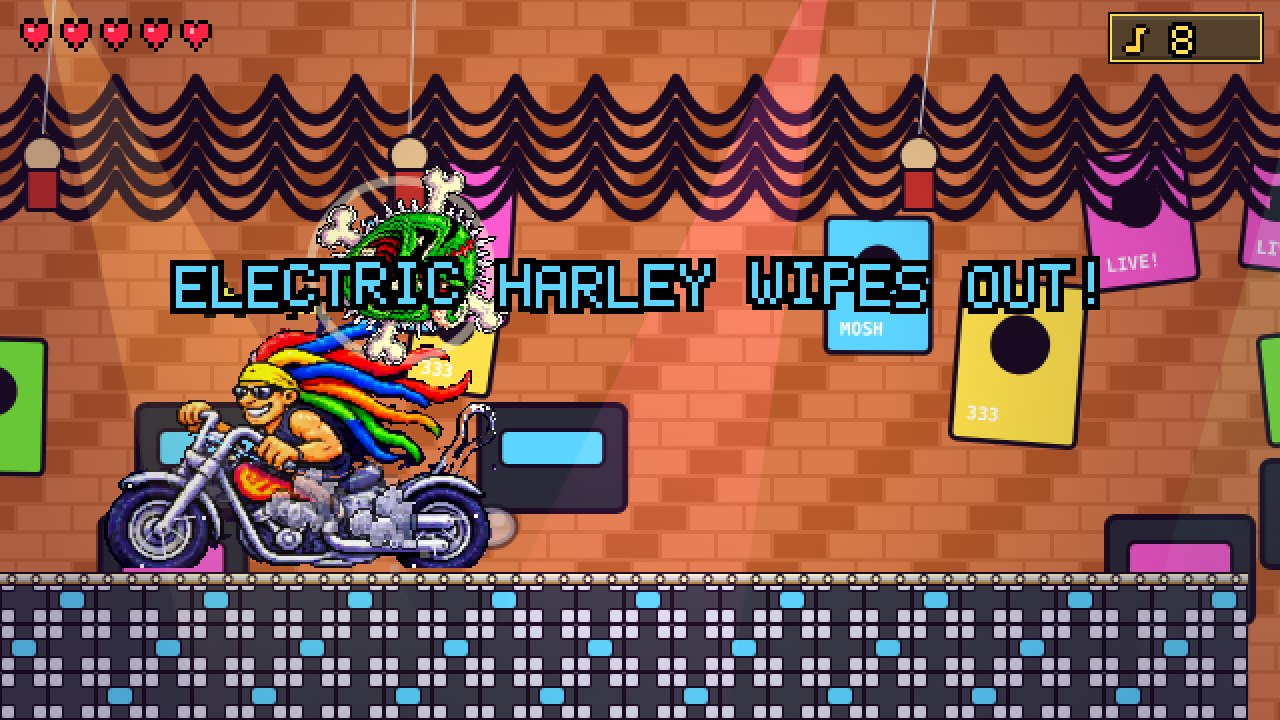
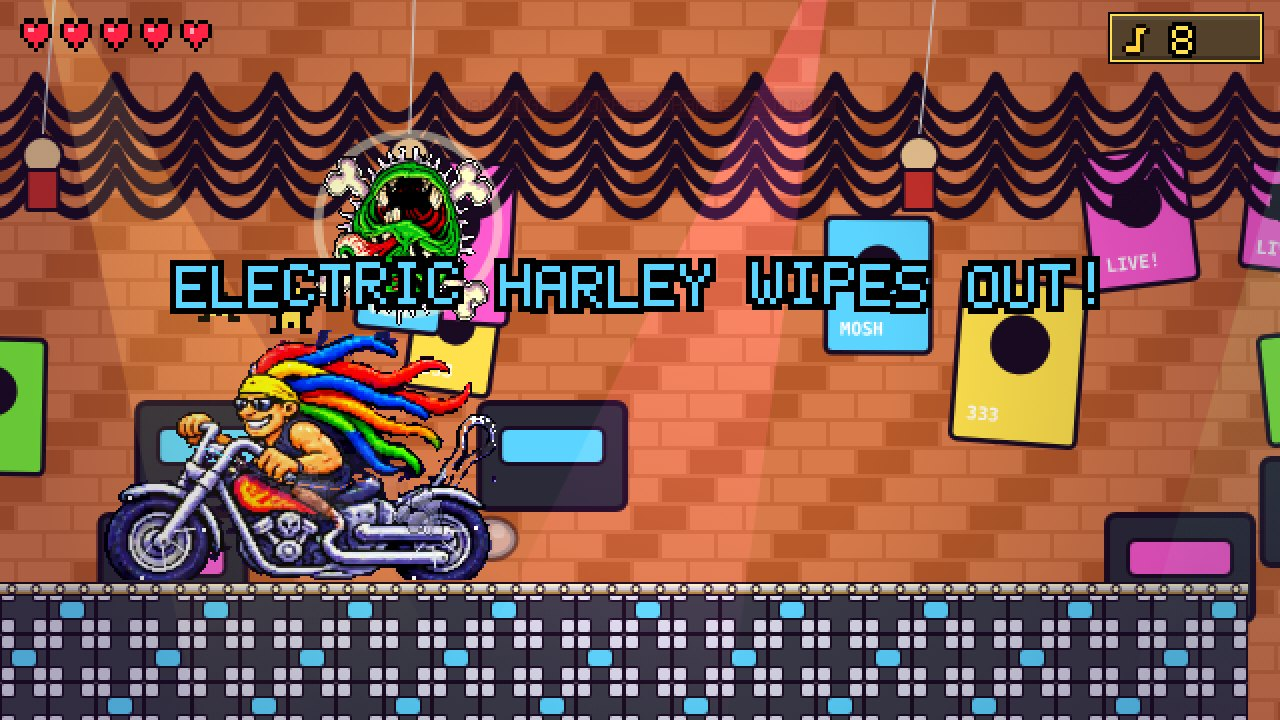
Cowgod is much larger: boss ~1.9x with matching hitbox and flight paths, ally and cameos ~1.6-1.9x
- Boss: drawn at 1.18 (was .62), hitbox 150x120 (was 80x70); hover/swoop/stomp heights
  retuned so he stays fully on screen and still reaches the player
- Camera: a boss arena can pin the floor low on screen (camLock.gy) to leave sky for
  big flying bosses; used by Cowgod
- Flying ally .8 (was .42) and follows a little lower/further back; cutscene actor 1.05,
  assists .9, concert .6, title parade .55

Claude-Session: https://claude.ai/code/session_019Ne5GGHYBphK5gLvVuayK5

Changed region(s): [[0.0, 0.1222, 1.0, 1.0], [0.875, 0.7028, 0.9688, 0.7639]]

diff --git a/game/333-dimensions-of-madness/333-dimensions-of-madness.html b/game/333-dimensions-of-madness/333-dimensions-of-madness.html
@@ -1493,7 +1493,7 @@ const Cam = {
     this.look = lerp(this.look || 0, facing * VW * .12, instant ? 1 : .025);
     let tx = px - VW / 2 + this.look, ty = this.ty0 === undefined ? py - VH * .56 : this.ty0;
     const want = py - VH * .56; if (instant || Math.abs(want - ty) > 18) ty = lerp(ty, want, instant ? 1 : .08); this.ty0 = ty;
-    if (L.camLock) { tx = clamp(tx, L.camLock.x0, L.camLock.x1 - VW); }
+    if (L.camLock) { tx = clamp(tx, L.camLock.x0, L.camLock.x1 - VW); if (L.camLock.gy) ty = L.camLock.gy - VH * .86; } // gy: arena floor low on screen (room for big flying bosses)
     tx = clamp(tx, 0, L.w * TS - VW); ty = clamp(ty, 0, L.h * TS - VH);
     if (L.autoScroll) tx = Math.max(this.x, L.scrollX);
     if (instant) { this.x = tx; this.y = ty; } else { this.x = lerp(this.x, tx, L.autoScroll ? 1 : .1); this.y = lerp(this.y, ty, .1); }
@@ -2664,7 +2664,7 @@ function drawActor(who, x, y, o = {}) {
     case 'hamwise': case 'porkington': case 'trufflina': drawPig(who, x, y, { face: o.face, state: o.anim === 'dance' ? 'dance' : o.anim || 'idle', t }); break;
     case 'razz': drawBiker(x, y, { face: o.face, t, speed: o.anim === 'idle' ? .1 : 1, wheelie: o.anim === 'wheelie' ? .35 + Math.sin(t * 4) * .05 : 0 }); break;
     case 'barnaby': drawWolf(x, y, { face: o.face, t, arm: o.anim === 'howl' ? -.3 : Math.sin(t * 2) * .2, rot: o.anim === 'howl' ? -.2 : 0, scale: o.scale || .7 }); break;
-    case 'udderly': drawCow(x, y - (o.anim === 'fly' ? 20 + Math.sin(t * 3) * 6 : 0), { face: o.face, t, scale: o.scale || .6, rot: o.anim === 'fly' ? -.15 : 0, hypno: o.hypno }); break;
+    case 'udderly': drawCow(x, y - (o.anim === 'fly' ? 20 + Math.sin(t * 3) * 6 : 0), { face: o.face, t, scale: o.scale || 1.05, rot: o.anim === 'fly' ? -.15 : 0, hypno: o.hypno }); break;
     case 'gloop': drawSludge(x, y, { face: o.face, t, scale: o.scale || .45 }); break;
     case 'gloopkin': drawGloopkin(x, y, { face: o.face, t }); break;
     case 'bear': spr(SPR.bear[Math.floor(t * 2) % 2], x, y, { flip: (o.face || 1) < 0 }); break;
@@ -2917,29 +2917,30 @@ class WolfBoss extends Boss {
 }
 // ---------------------------------------------------------------------------- COWGOD (hypnotized)
 class CowBoss extends Boss {
-  constructor(x, y, o) { super(x, y - 90, 80, 70, o); this.name = 'COWGOD (HYPNOTIZED)'; this.setHp(30); this.ground = y; this.face = -1; this.rot = 0; this.cape = 3; this.capeStretch = 0; this.sxx = 1; this.syy = 1; this.hx = x; }
+  constructor(x, y, o) { super(x - 35, y - 170, 150, 120, o); this.name = 'COWGOD (HYPNOTIZED)'; this.setHp(30); this.ground = y; this.face = -1; this.rot = 0; this.cape = 3; this.capeStretch = 0; this.sxx = 1; this.syy = 1; this.hx = x; }
   hitbox() { return { x: this.x + 10, y: this.y + 8, w: this.w - 20, h: this.h - 10 }; }
   update(L) {
     if (!this.commonUpdate()) return; const p = Game.player, a = L.camLock || { x0: Cam.x, x1: Cam.x + W }, mid = (a.x0 + a.x1) / 2, spd = 1 + (this.phase - 1) * .25;
+    if (L.camLock) L.camLock.gy = this.ground; // frame the arena with the floor low: Cowgod is BIG and needs sky
     this.rot = lerp(this.rot, 0, .08); this.cape = lerp(this.cape, 3, .05); this.capeStretch = lerp(this.capeStretch, 0, .1); this.sxx = lerp(this.sxx, 1, .15); this.syy = lerp(this.syy, 1, .15);
     switch (this.state) {
-      case 'intro': this.y = this.ground - 160 + Math.sin(this.t * .05) * 8; if (this.st > 60) this.go('hover'); break;
-      case 'hover': this.face = sign(p.cx - this.cx) || -1; this.x = lerp(this.x, p.cx - this.w / 2 - this.face * 120, .02); this.y = lerp(this.y, this.ground - 170 + Math.sin(this.t * .06) * 14, .05);
+      case 'intro': this.y = this.ground - 196 + Math.sin(this.t * .05) * 8; if (this.st > 60) this.go('hover'); break;
+      case 'hover': this.face = sign(p.cx - this.cx) || -1; this.x = lerp(this.x, p.cx - this.w / 2 - this.face * 160, .02); this.y = lerp(this.y, this.ground - 196 + Math.sin(this.t * .06) * 8, .05);
         if (this.st > 80 / spd) this.go(pick(this.phase === 1 ? ['swoop', 'charge'] : ['swoop', 'stomp', 'charge'])); break;
       case 'swoop': { if (this.st === 1) { this.sx0 = this.x; this.tx = p.cx; AudioSys.play_sfx('flap'); AudioSys.play_sfx('moo'); }
-        const k = this.st / (70 / spd); this.x = lerp(this.sx0, this.tx - this.w / 2 + this.face * 220, k); this.y = this.ground - 170 + Math.sin(k * Math.PI) * 130; this.rot = .3 * this.face * Math.cos(k * Math.PI); this.cape = 7; this.capeStretch = 6;
+        const k = this.st / (70 / spd); this.x = lerp(this.sx0, this.tx - this.w / 2 + this.face * 260, k); this.y = this.ground - 196 + Math.sin(k * Math.PI) * (196 - this.h); this.rot = .3 * this.face * Math.cos(k * Math.PI); this.cape = 7; this.capeStretch = 6;
         if (this.st % 4 === 0) FX.add({ x: this.cx - this.face * 30, y: this.cy, vx: -this.face, vy: 0, col: '#ff3a3a', size: 2, life: 20, grav: 0 });
         Game.bossAttack(this.hitbox()); if (k >= 1) this.go('hover'); break; }
       case 'charge': if (this.st < 30) { this.y = lerp(this.y, this.ground - this.h, .2); this.syy = .9; this.face = sign(p.cx - this.cx) || -1; } else { if (this.st === 30) AudioSys.play_sfx('moo'); this.x += this.face * 6.5 * spd; this.cape = 8; this.capeStretch = 10; this.rot = .1 * this.face; if (this.st % 2 === 0) FX.dust(this.cx - this.face * 30, this.ground, 1); Game.bossAttack(this.hitbox()); if (this.x < a.x0 - 20 || this.x + this.w > a.x1 + 20) { this.x = clamp(this.x, a.x0 - 20, a.x1 - this.w + 20); Cam.shake(6, 12); AudioSys.play_sfx('bash'); this.go('dizzy'); } } break;
       case 'dizzy': this.y = this.ground - this.h; if (this.st > 90 - this.phase * 15) this.go('hover'); break;
-      case 'stomp': if (this.st < 50) { this.x = lerp(this.x, p.cx - this.w / 2, .08); this.y = lerp(this.y, this.ground - 230, .1); } else if (this.st === 50) { this.vy = 2; } else { this.vy += .8; this.y += this.vy; this.syy = 1.2; this.sxx = .85; if (this.y + this.h >= this.ground) { this.y = this.ground - this.h; this.syy = .65; this.sxx = 1.35; Cam.shake(8, 16); AudioSys.play_sfx('bash'); AudioSys.play_sfx('rumble'); FX.ring(this.cx, this.ground, 120, '#fff', 20, 4); FX.dust(this.cx, this.ground, 16); Game.bossAttack({ x: this.cx - 90, y: this.ground - 16, w: 180, h: 16 }); Game.add(new EnemyShot(this.cx, this.ground - 8, -3.2, 0, 'wave')); Game.add(new EnemyShot(this.cx, this.ground - 8, 3.2, 0, 'wave')); this.go('dizzy'); } } break;
+      case 'stomp': if (this.st < 50) { this.x = lerp(this.x, p.cx - this.w / 2, .08); this.y = lerp(this.y, this.ground - 200, .1); } else if (this.st === 50) { this.vy = 2; } else { this.vy += .8; this.y += this.vy; this.syy = 1.2; this.sxx = .85; if (this.y + this.h >= this.ground) { this.y = this.ground - this.h; this.syy = .65; this.sxx = 1.35; Cam.shake(8, 16); AudioSys.play_sfx('bash'); AudioSys.play_sfx('rumble'); FX.ring(this.cx, this.ground, 120, '#fff', 20, 4); FX.dust(this.cx, this.ground, 16); Game.bossAttack({ x: this.cx - 90, y: this.ground - 16, w: 180, h: 16 }); Game.add(new EnemyShot(this.cx, this.ground - 8, -3.2, 0, 'wave')); Game.add(new EnemyShot(this.cx, this.ground - 8, 3.2, 0, 'wave')); this.go('dizzy'); } } break;
       case 'cape': this.cape = 14; this.rot = Math.sin(this.st * .4) * .2; if (this.st % 10 === 0) { AudioSys.play_sfx('flap'); Game.add(new EnemyShot(this.cx, this.cy, R(-4, 4), R(-3, -1), 'spore')); } Game.L.wind = this.face * -.15; if (this.st > 80) { Game.L.wind = 0; this.go('hover'); } break;
       case 'dying': this.y = Math.min(this.y + 1, this.ground - this.h); break;
     }
     if (this.state !== 'swoop' && this.state !== 'charge' && this.state !== 'dying' && this.state !== 'intro') this.contactDmg();
   }
-  draw(cx, cy) { const x = this.cx - cx, y = this.y + this.h - cy + 10; drawCow(x, y, { face: this.face, t: this.t / 60, scale: .62 * this.sxx, sy: this.syy / this.sxx, rot: this.rot, cape: this.cape, capeStretch: this.capeStretch, hypno: !this.defeated, flash: this.flash > 0 ? '#fff' : false });
-    if (this.state === 'dizzy') for (let i = 0; i < 3; i++) { const a = this.t * .12 + i * 2.1; ctx.drawImage(ICON.star, x + Math.cos(a) * 20 - 7, y - 90 + Math.sin(a) * 4); } }
+  draw(cx, cy) { const x = this.cx - cx, y = this.y + this.h - cy + 10; drawCow(x, y, { face: this.face, t: this.t / 60, scale: 1.18 * this.sxx, sy: this.syy / this.sxx, rot: this.rot, cape: this.cape, capeStretch: this.capeStretch, hypno: !this.defeated, flash: this.flash > 0 ? '#fff' : false });
+    if (this.state === 'dizzy') for (let i = 0; i < 3; i++) { const a = this.t * .12 + i * 2.1; ctx.drawImage(ICON.star, x + Math.cos(a) * 34 - 7, y - 150 + Math.sin(a) * 5); } }
 }
 // ---------------------------------------------------------------------------- BOVINE OVERLORD (mech cow)
 class OverlordBoss extends Boss {
@@ -3196,7 +3197,7 @@ class FeedbackBoss extends Boss {
     if (this.allyEvent) { const e = this.allyEvent, k = e.t / 60, gy = this.ground - cy;
       if (e.k === 'pigs') { const px = -60 + e.t * 5; drawPig('trufflina', px + 40, gy, { face: 1, state: 'run', t: k }); drawPig('porkington', px, gy, { face: 1, state: 'run', t: k + .2 }); drawPig('hamwise', px - 36, gy, { face: 1, state: 'run', t: k + .4, prop: 'kazoo' }); }
       if (e.k === 'razz') drawBiker(-80 + e.t * 7, gy, { face: 1, t: k, speed: 2, turbo: true, wheelie: .25 });
-      if (e.k === 'udderly') drawCow(x - 200 + e.t * 4, y - 60 + Math.min(e.t, 40) * 3, { face: 1, t: k, scale: .5, rot: .5, cape: 10, capeStretch: 8 });
+      if (e.k === 'udderly') drawCow(x - 200 + e.t * 4, y - 60 + Math.min(e.t, 40) * 3, { face: 1, t: k, scale: .9, rot: .5, cape: 10, capeStretch: 8 });
       if (e.k === 'barnaby') { drawWolf(60, gy, { face: 1, t: k, scale: .55, rot: -.35, arm: -.4 }); if (e.t % 10 === 0) FX.ring(60 + cx, this.ground - 90, 160, '#fff', 20, 2); }
       if (e.k === 'gloop') { drawSludge(x + 30, gy + 4, { t: k, scale: .7, sx: 1.8, sy: .5, wobble: 2 }); }
     }
@@ -3374,11 +3375,11 @@ class UdderlyAlly extends Ent { // Cowgod flies alongside and assists in fights
   update(L) {
     this.t++; this.st++; const p = Game.player;
     if (this.mode === 'follow' && this.t % 1500 === 600 && p.form === 'normal') { Game.add(new PowerUp({ x: this.cx, y: this.cy, kind: 'cow', drop: true })); HUD.toast('COWGOD: "SPECIAL DELIVERY, CITIZEN!"', '#fff'); AudioSys.play_sfx('moo'); }
-    if (this.mode === 'follow') { this.x = lerp(this.x, p.cx - p.face * 70, .04); this.y = lerp(this.y, p.cy - 90 + Math.sin(this.t * .05) * 10, .05); this.face = sign(p.cx - this.cx) || 1; }
+    if (this.mode === 'follow') { this.x = lerp(this.x, p.cx - p.face * 105, .04); this.y = lerp(this.y, p.cy - 62 + Math.sin(this.t * .05) * 8, .05); this.face = sign(p.cx - this.cx) || 1; }
     else if (this.mode === 'dive') { const k = Math.min(1, this.st / 30); this.x = lerp(this.x, this.tx, k * .3); this.y = lerp(this.y, this.ty, k * .3); this.face = sign(this.tx - this.cx) || 1;
       if (dist(this.cx, this.cy, this.tx, this.ty) < 30 || this.st > 60) { this.mode = 'follow'; Cam.shake(6, 14); AudioSys.play_sfx('bash'); FX.ring(this.tx, this.ty, 60, '#fff'); for (const e of Game.ents) if (e.isBoss && !e.defeated) { if (e.state !== 'dying' && e.go) { e.hit(3, { kind: 'ally' }); if (e instanceof OverlordBoss) e.go('stunned'); } } } }
   }
-  draw(cx, cy) { drawCow(this.cx - cx, this.y + this.h - cy + 30, { face: this.face, t: this.t / 60, scale: .42, rot: this.mode === 'dive' ? .5 * this.face : -.12 * this.face, cape: this.mode === 'dive' ? 9 : 4, capeStretch: this.mode === 'dive' ? 8 : 0 }); }
+  draw(cx, cy) { drawCow(this.cx - cx, this.y + this.h - cy + 30, { face: this.face, t: this.t / 60, scale: .8, rot: this.mode === 'dive' ? .5 * this.face : -.12 * this.face, cape: this.mode === 'dive' ? 9 : 4, capeStretch: this.mode === 'dive' ? 8 : 0 }); }
 }
 // ---------------------------------------------------------------- summons (cost 50 METAL)
 const SUMMONS = {
@@ -3402,7 +3403,7 @@ class Summon extends Ent {
     const x = this.x - cx, gy = this.ground - cy;
     if (this.kind === 'pigs') { drawPig('trufflina', x + 40, gy, { face: 1, state: 'run', t: this.t / 60 }); drawPig('porkington', x, gy, { face: 1, state: 'run', t: this.t / 60 + .2 }); drawPig('hamwise', x - 36, gy, { face: 1, state: 'run', t: this.t / 60 + .4, prop: 'kazoo' }); }
     if (this.kind === 'razz') drawBiker(x, gy, { face: 1, t: this.t / 60, speed: 2, turbo: true, wheelie: .15 });
-    if (this.kind === 'udderly') drawCow(x, gy - 80, { face: 1, t: this.t / 60, scale: .5, rot: -.1, cape: 8, capeStretch: 6 });
+    if (this.kind === 'udderly') drawCow(x, gy - 80, { face: 1, t: this.t / 60, scale: .9, rot: -.1, cape: 8, capeStretch: 6 });
   }
 }
 // ---------------------------------------------------------------- chase pursuer (backstage / pig chase)
@@ -4441,7 +4442,7 @@ const Title = {
     drawPig('hamwise', px, 352, { face: 1, state: 'walk', t }); drawPig('porkington', px - 30, 352, { face: 1, state: 'walk', t: t + .2 }); drawPig('trufflina', px - 66, 352, { face: 1, state: 'walk', t: t + .4 });
     drawBiker(px - 160, 354, { face: 1, t, speed: 1, wheelie: Math.sin(t) > .6 ? .25 : 0 });
     drawWolf(W + 300 - ((t * 32) % (W + 600)), 356, { face: -1, t, scale: .42, arm: Math.sin(t * 4) * .6 });
-    drawCow(W + 380 - ((t * 32) % (W + 600)), 300, { face: -1, t, scale: .35, rot: -.1 * Math.sin(t) });
+    drawCow(W + 380 - ((t * 32) % (W + 600)), 300, { face: -1, t, scale: .55, rot: -.1 * Math.sin(t) });
     drawSludge(W + 470 - ((t * 32) % (W + 600)), 358, { face: -1, t, scale: .2 });
     if (!this.pressed) { if (Math.floor(t * 2) % 2) text(Input.mode === 'touch' ? 'TAP TO ROCK' : 'PRESS ANY BUTTON', W / 2, 300, { color: '#fff', align: 'center', scale: 2, outline: true }); }
     else { panel(W / 2 - 100, 236, 200, this.items().length * 14 + 8, { rim: '#7fff3a', bg: 'rgba(20,8,30,.9)' }); drawList(this.items(), this.sel, W / 2 - 84, 242, { gap: 14, w: 190 }); }
@@ -4620,7 +4621,7 @@ const Ending = {
     drawPig('trufflina', 216, 300, { face: 1, state: Math.floor(t * 2) % 2 ? 'attack' : 'idle', t, sq: 1 + Math.sin(t * 8) * .06 });
     const rx = W / 2 + Math.cos(t * .8) * 220, dir = -Math.sin(t * .8); drawBiker(rx, 302, { face: dir > 0 ? 1 : -1, t, speed: 1.4, wheelie: .3 + Math.sin(t * 3) * .1, turbo: true }); if (k % 3 === 0) FX.smoke(rx - (dir > 0 ? 60 : -60), 292, -dir * 2);
     drawWolf(540, 302, { face: -1, t, scale: .5, rot: -.35, arm: -.4 + Math.sin(t * 3) * .2 }); if (k % 90 === 0) { AudioSys.play_sfx('howl'); FX.ring(530, 220, 60, '#fff', 30, 2); }
-    drawCow(W / 2 + Math.cos(t * 1.4) * 160, 120 + Math.sin(t * 2.8) * 40, { face: Math.sin(t * 1.4) < 0 ? 1 : -1, t, scale: .38, rot: Math.sin(t * 1.4) * .3, cape: 8, capeStretch: 6 });
+    drawCow(W / 2 + Math.cos(t * 1.4) * 160, 120 + Math.sin(t * 2.8) * 40, { face: Math.sin(t * 1.4) < 0 ? 1 : -1, t, scale: .6, rot: Math.sin(t * 1.4) * .3, cape: 8, capeStretch: 6 });
     const gm = Math.floor(t / 2) % 3; if (gm === 0) drawSludge(420, 302, { t, scale: .3, sy: 1 + Math.sin(t * 4) * .4, wobble: 2 }); else if (gm === 1) { for (const s of [-1, 0, 1]) drawSludge(420 + s * 26, 302, { t: t + s, scale: .14, sy: 1 + Math.abs(Math.sin(t * 6 + s)) * .5 }); } else drawSludge(420, 302, { t, scale: .3, sx: 1.6, sy: .6, wobble: 3, bulge: .2 });
     FX.draw(0, 0);
     // credits roll

diff --git a/game/333-dimensions-of-madness/src/12_bosses.js b/game/333-dimensions-of-madness/src/12_bosses.js
@@ -99,29 +99,30 @@ class WolfBoss extends Boss {
 }
 // ---------------------------------------------------------------------------- COWGOD (hypnotized)
 class CowBoss extends Boss {
-  constructor(x, y, o) { super(x, y - 90, 80, 70, o); this.name = 'COWGOD (HYPNOTIZED)'; this.setHp(30); this.ground = y; this.face = -1; this.rot = 0; this.cape = 3; this.capeStretch = 0; this.sxx = 1; this.syy = 1; this.hx = x; }
+  constructor(x, y, o) { super(x - 35, y - 170, 150, 120, o); this.name = 'COWGOD (HYPNOTIZED)'; this.setHp(30); this.ground = y; this.face = -1; this.rot = 0; this.cape = 3; this.capeStretch = 0; this.sxx = 1; this.syy = 1; this.hx = x; }
   hitbox() { return { x: this.x + 10, y: this.y + 8, w: this.w - 20, h: this.h - 10 }; }
   update(L) {
     if (!this.commonUpdate()) return; const p = Game.player, a = L.camLock || { x0: Cam.x, x1: Cam.x + W }, mid = (a.x0 + a.x1) / 2, spd = 1 + (this.phase - 1) * .25;
+    if (L.camLock) L.camLock.gy = this.ground; // frame the arena with the floor low: Cowgod is BIG and needs sky
     this.rot = lerp(this.rot, 0, .08); this.cape = lerp(this.cape, 3, .05); this.capeStretch = lerp(this.capeStretch, 0, .1); this.sxx = lerp(this.sxx, 1, .15); this.syy = lerp(this.syy, 1, .15);
     switch (this.state) {
-      case 'intro': this.y = this.ground - 160 + Math.sin(this.t * .05) * 8; if (this.st > 60) this.go('hover'); break;
-      case 'hover': this.face = sign(p.cx - this.cx) || -1; this.x = lerp(this.x, p.cx - this.w / 2 - this.face * 120, .02); this.y = lerp(this.y, this.ground - 170 + Math.sin(this.t * .06) * 14, .05);
+      case 'intro': this.y = this.ground - 196 + Math.sin(this.t * .05) * 8; if (this.st > 60) this.go('hover'); break;
+      case 'hover': this.face = sign(p.cx - this.cx) || -1; this.x = lerp(this.x, p.cx - this.w / 2 - this.face * 160, .02); this.y = lerp(this.y, this.ground - 196 + Math.sin(this.t * .06) * 8, .05);
         if (this.st > 80 / spd) this.go(pick(this.phase === 1 ? ['swoop', 'charge'] : ['swoop', 'stomp', 'charge'])); break;
       case 'swoop': { if (this.st === 1) { this.sx0 = this.x; this.tx = p.cx; AudioSys.play_sfx('flap'); AudioSys.play_sfx('moo'); }
-        const k = this.st / (70 / spd); this.x = lerp(this.sx0, this.tx - this.w / 2 + this.face * 220, k); this.y = this.ground - 170 + Math.sin(k * Math.PI) * 130; this.rot = .3 * this.face * Math.cos(k * Math.PI); this.cape = 7; this.capeStretch = 6;
+        const k = this.st / (70 / spd); this.x = lerp(this.sx0, this.tx - this.w / 2 + this.face * 260, k); this.y = this.ground - 196 + Math.sin(k * Math.PI) * (196 - this.h); this.rot = .3 * this.face * Math.cos(k * Math.PI); this.cape = 7; this.capeStretch = 6;
         if (this.st % 4 === 0) FX.add({ x: this.cx - this.face * 30, y: this.cy, vx: -this.face, vy: 0, col: '#ff3a3a', size: 2, life: 20, grav: 0 });
         Game.bossAttack(this.hitbox()); if (k >= 1) this.go('hover'); break; }
       case 'charge': if (this.st < 30) { this.y = lerp(this.y, this.ground - this.h, .2); this.syy = .9; this.face = sign(p.cx - this.cx) || -1; } else { if (this.st === 30) AudioSys.play_sfx('moo'); this.x += this.face * 6.5 * spd; this.cape = 8; this.capeStretch = 10; this.rot = .1 * this.face; if (this.st % 2 === 0) FX.dust(this.cx - this.face * 30, this.ground, 1); Game.bossAttack(this.hitbox()); if (this.x < a.x0 - 20 || this.x + this.w > a.x1 + 20) { this.x = clamp(this.x, a.x0 - 20, a.x1 - this.w + 20); Cam.shake(6, 12); AudioSys.play_sfx('bash'); this.go('dizzy'); } } break;
       case 'dizzy': this.y = this.ground - this.h; if (this.st > 90 - this.phase * 15) this.go('hover'); break;
-      case 'stomp': if (this.st < 50) { this.x = lerp(this.x, p.cx - this.w / 2, .08); this.y = lerp(this.y, this.ground - 230, .1); } else if (this.st === 50) { this.vy = 2; } else { this.vy += .8; this.y += this.vy; this.syy = 1.2; this.sxx = .85; if (this.y + this.h >= this.ground) { this.y = this.ground - this.h; this.syy = .65; this.sxx = 1.35; Cam.shake(8, 16); AudioSys.play_sfx('bash'); AudioSys.play_sfx('rumble'); FX.ring(this.cx, this.ground, 120, '#fff', 20, 4); FX.dust(this.cx, this.ground, 16); Game.bossAttack({ x: this.cx - 90, y: this.ground - 16, w: 180, h: 16 }); Game.add(new EnemyShot(this.cx, this.ground - 8, -3.2, 0, 'wave')); Game.add(new EnemyShot(this.cx, this.ground - 8, 3.2, 0, 'wave')); this.go('dizzy'); } } break;
+      case 'stomp': if (this.st < 50) { this.x = lerp(this.x, p.cx - this.w / 2, .08); this.y = lerp(this.y, this.ground - 200, .1); } else if (this.st === 50) { this.vy = 2; } else { this.vy += .8; this.y += this.vy; this.syy = 1.2; this.sxx = .85; if (this.y + this.h >= this.ground) { this.y = this.ground - this.h; this.syy = .65; this.sxx = 1.35; Cam.shake(8, 16); AudioSys.play_sfx('bash'); AudioSys.play_sfx('rumble'); FX.ring(this.cx, this.ground, 120, '#fff', 20, 4); FX.dust(this.cx, this.ground, 16); Game.bossAttack({ x: this.cx - 90, y: this.ground - 16, w: 180, h: 16 }); Game.add(new EnemyShot(this.cx, this.ground - 8, -3.2, 0, 'wave')); Game.add(new EnemyShot(this.cx, this.ground - 8, 3.2, 0, 'wave')); this.go('dizzy'); } } break;
       case 'cape': this.cape = 14; this.rot = Math.sin(this.st * .4) * .2; if (this.st % 10 === 0) { AudioSys.play_sfx('flap'); Game.add(new EnemyShot(this.cx, this.cy, R(-4, 4), R(-3, -1), 'spore')); } Game.L.wind = this.face * -.15; if (this.st > 80) { Game.L.wind = 0; this.go('hover'); } break;
       case 'dying': this.y = Math.min(this.y + 1, this.ground - this.h); break;
     }
     if (this.state !== 'swoop' && this.state !== 'charge' && this.state !== 'dying' && this.state !== 'intro') this.contactDmg();
   }
-  draw(cx, cy) { const x = this.cx - cx, y = this.y + this.h - cy + 10; drawCow(x, y, { face: this.face, t: this.t / 60, scale: .62 * this.sxx, sy: this.syy / this.sxx, rot: this.rot, cape: this.cape, capeStretch: this.capeStretch, hypno: !this.defeated, flash: this.flash > 0 ? '#fff' : false });
-    if (this.state === 'dizzy') for (let i = 0; i < 3; i++) { const a = this.t * .12 + i * 2.1; ctx.drawImage(ICON.star, x + Math.cos(a) * 20 - 7, y - 90 + Math.sin(a) * 4); } }
+  draw(cx, cy) { const x = this.cx - cx, y = this.y + this.h - cy + 10; drawCow(x, y, { face: this.face, t: this.t / 60, scale: 1.18 * this.sxx, sy: this.syy / this.sxx, rot: this.rot, cape: this.cape, capeStretch: this.capeStretch, hypno: !this.defeated, flash: this.flash > 0 ? '#fff' : false });
+    if (this.state === 'dizzy') for (let i = 0; i < 3; i++) { const a = this.t * .12 + i * 2.1; ctx.drawImage(ICON.star, x + Math.cos(a) * 34 - 7, y - 150 + Math.sin(a) * 5); } }
 }
 // ---------------------------------------------------------------------------- BOVINE OVERLORD (mech cow)
 class OverlordBoss extends Boss {
@@ -378,7 +379,7 @@ class FeedbackBoss extends Boss {
     if (this.allyEvent) { const e = this.allyEvent, k = e.t / 60, gy = this.ground - cy;
       if (e.k === 'pigs') { const px = -60 + e.t * 5; drawPig('trufflina', px + 40, gy, { face: 1, state: 'run', t: k }); drawPig('porkington', px, gy, { face: 1, state: 'run', t: k + .2 }); drawPig('hamwise', px - 36, gy, { face: 1, state: 'run', t: k + .4, prop: 'kazoo' }); }
       if (e.k === 'razz') drawBiker(-80 + e.t * 7, gy, { face: 1, t: k, speed: 2, turbo: true, wheelie: .25 });
-      if (e.k === 'udderly') drawCow(x - 200 + e.t * 4, y - 60 + Math.min(e.t, 40) * 3, { face: 1, t: k, scale: .5, rot: .5, cape: 10, capeStretch: 8 });
+      if (e.k === 'udderly') drawCow(x - 200 + e.t * 4, y - 60 + Math.min(e.t, 40) * 3, { face: 1, t: k, scale: .9, rot: .5, cape: 10, capeStretch: 8 });
       if (e.k === 'barnaby') { drawWolf(60, gy, { face: 1, t: k, scale: .55, rot: -.35, arm: -.4 }); if (e.t % 10 === 0) FX.ring(60 + cx, this.ground - 90, 160, '#fff', 20, 2); }
       if (e.k === 'gloop') { drawSludge(x + 30, gy + 4, { t: k, scale: .7, sx: 1.8, sy: .5, wobble: 2 }); }
     }

diff --git a/game/333-dimensions-of-madness/src/13_allies.js b/game/333-dimensions-of-madness/src/13_allies.js
@@ -7,11 +7,11 @@ class UdderlyAlly extends Ent { // Cowgod flies alongside and assists in fights
   update(L) {
     this.t++; this.st++; const p = Game.player;
     if (this.mode === 'follow' && this.t % 1500 === 600 && p.form === 'normal') { Game.add(new PowerUp({ x: this.cx, y: this.cy, kind: 'cow', drop: true })); HUD.toast('COWGOD: "SPECIAL DELIVERY, CITIZEN!"', '#fff'); AudioSys.play_sfx('moo'); }
-    if (this.mode === 'follow') { this.x = lerp(this.x, p.cx - p.face * 70, .04); this.y = lerp(this.y, p.cy - 90 + Math.sin(this.t * .05) * 10, .05); this.face = sign(p.cx - this.cx) || 1; }
+    if (this.mode === 'follow') { this.x = lerp(this.x, p.cx - p.face * 105, .04); this.y = lerp(this.y, p.cy - 62 + Math.sin(this.t * .05) * 8, .05); this.face = sign(p.cx - this.cx) || 1; }
     else if (this.mode === 'dive') { const k = Math.min(1, this.st / 30); this.x = lerp(this.x, this.tx, k * .3); this.y = lerp(this.y, this.ty, k * .3); this.face = sign(this.tx - this.cx) || 1;
       if (dist(this.cx, this.cy, this.tx, this.ty) < 30 || this.st > 60) { this.mode = 'follow'; Cam.shake(6, 14); AudioSys.play_sfx('bash'); FX.ring(this.tx, this.ty, 60, '#fff'); for (const e of Game.ents) if (e.isBoss && !e.defeated) { if (e.state !== 'dying' && e.go) { e.hit(3, { kind: 'ally' }); if (e instanceof OverlordBoss) e.go('stunned'); } } } }
   }
-  draw(cx, cy) { drawCow(this.cx - cx, this.y + this.h - cy + 30, { face: this.face, t: this.t / 60, scale: .42, rot: this.mode === 'dive' ? .5 * this.face : -.12 * this.face, cape: this.mode === 'dive' ? 9 : 4, capeStretch: this.mode === 'dive' ? 8 : 0 }); }
+  draw(cx, cy) { drawCow(this.cx - cx, this.y + this.h - cy + 30, { face: this.face, t: this.t / 60, scale: .8, rot: this.mode === 'dive' ? .5 * this.face : -.12 * this.face, cape: this.mode === 'dive' ? 9 : 4, capeStretch: this.mode === 'dive' ? 8 : 0 }); }
 }
 // ---------------------------------------------------------------- summons (cost 50 METAL)
 const SUMMONS = {
@@ -35,7 +35,7 @@ class Summon extends Ent {
     const x = this.x - cx, gy = this.ground - cy;
     if (this.kind === 'pigs') { drawPig('trufflina', x + 40, gy, { face: 1, state: 'run', t: this.t / 60 }); drawPig('porkington', x, gy, { face: 1, state: 'run', t: this.t / 60 + .2 }); drawPig('hamwise', x - 36, gy, { face: 1, state: 'run', t: this.t / 60 + .4, prop: 'kazoo' }); }
     if (this.kind === 'razz') drawBiker(x, gy, { face: 1, t: this.t / 60, speed: 2, turbo: true, wheelie: .15 });
-    if (this.kind === 'udderly') drawCow(x, gy - 80, { face: 1, t: this.t / 60, scale: .5, rot: -.1, cape: 8, capeStretch: 6 });
+    if (this.kind === 'udderly') drawCow(x, gy - 80, { face: 1, t: this.t / 60, scale: .9, rot: -.1, cape: 8, capeStretch: 6 });
   }
 }
 // ---------------------------------------------------------------- chase pursuer (backstage / pig chase)

diff --git a/game/333-dimensions-of-madness/src/18_concert.js b/game/333-dimensions-of-madness/src/18_concert.js
@@ -78,7 +78,7 @@ const Ending = {
     drawPig('trufflina', 216, 300, { face: 1, state: Math.floor(t * 2) % 2 ? 'attack' : 'idle', t, sq: 1 + Math.sin(t * 8) * .06 });
     const rx = W / 2 + Math.cos(t * .8) * 220, dir = -Math.sin(t * .8); drawBiker(rx, 302, { face: dir > 0 ? 1 : -1, t, speed: 1.4, wheelie: .3 + Math.sin(t * 3) * .1, turbo: true }); if (k % 3 === 0) FX.smoke(rx - (dir > 0 ? 60 : -60), 292, -dir * 2);
     drawWolf(540, 302, { face: -1, t, scale: .5, rot: -.35, arm: -.4 + Math.sin(t * 3) * .2 }); if (k % 90 === 0) { AudioSys.play_sfx('howl'); FX.ring(530, 220, 60, '#fff', 30, 2); }
-    drawCow(W / 2 + Math.cos(t * 1.4) * 160, 120 + Math.sin(t * 2.8) * 40, { face: Math.sin(t * 1.4) < 0 ? 1 : -1, t, scale: .38, rot: Math.sin(t * 1.4) * .3, cape: 8, capeStretch: 6 });
+    drawCow(W / 2 + Math.cos(t * 1.4) * 160, 120 + Math.sin(t * 2.8) * 40, { face: Math.sin(t * 1.4) < 0 ? 1 : -1, t, scale: .6, rot: Math.sin(t * 1.4) * .3, cape: 8, capeStretch: 6 });
     const gm = Math.floor(t / 2) % 3; if (gm === 0) drawSludge(420, 302, { t, scale: .3, sy: 1 + Math.sin(t * 4) * .4, wobble: 2 }); else if (gm === 1) { for (const s of [-1, 0, 1]) drawSludge(420 + s * 26, 302, { t: t + s, scale: .14, sy: 1 + Math.abs(Math.sin(t * 6 + s)) * .5 }); } else drawSludge(420, 302, { t, scale: .3, sx: 1.6, sy: .6, wobble: 3, bulge: .2 });
     FX.draw(0, 0);
     // credits roll

diff --git a/game/333-dimensions-of-madness/src/11_entities.js b/game/333-dimensions-of-madness/src/11_entities.js
@@ -320,7 +320,7 @@ function drawActor(who, x, y, o = {}) {
     case 'hamwise': case 'porkington': case 'trufflina': drawPig(who, x, y, { face: o.face, state: o.anim === 'dance' ? 'dance' : o.anim || 'idle', t }); break;
     case 'razz': drawBiker(x, y, { face: o.face, t, speed: o.anim === 'idle' ? .1 : 1, wheelie: o.anim === 'wheelie' ? .35 + Math.sin(t * 4) * .05 : 0 }); break;
     case 'barnaby': drawWolf(x, y, { face: o.face, t, arm: o.anim === 'howl' ? -.3 : Math.sin(t * 2) * .2, rot: o.anim === 'howl' ? -.2 : 0, scale: o.scale || .7 }); break;
-    case 'udderly': drawCow(x, y - (o.anim === 'fly' ? 20 + Math.sin(t * 3) * 6 : 0), { face: o.face, t, scale: o.scale || .6, rot: o.anim === 'fly' ? -.15 : 0, hypno: o.hypno }); break;
+    case 'udderly': drawCow(x, y - (o.anim === 'fly' ? 20 + Math.sin(t * 3) * 6 : 0), { face: o.face, t, scale: o.scale || 1.05, rot: o.anim === 'fly' ? -.15 : 0, hypno: o.hypno }); break;
     case 'gloop': drawSludge(x, y, { face: o.face, t, scale: o.scale || .45 }); break;
     case 'gloopkin': drawGloopkin(x, y, { face: o.face, t }); break;
     case 'bear': spr(SPR.bear[Math.floor(t * 2) % 2], x, y, { flip: (o.face || 1) < 0 }); break;

diff --git a/game/333-dimensions-of-madness/src/17_ui.js b/game/333-dimensions-of-madness/src/17_ui.js
@@ -210,7 +210,7 @@ const Title = {
     drawPig('hamwise', px, 352, { face: 1, state: 'walk', t }); drawPig('porkington', px - 30, 352, { face: 1, state: 'walk', t: t + .2 }); drawPig('trufflina', px - 66, 352, { face: 1, state: 'walk', t: t + .4 });
     drawBiker(px - 160, 354, { face: 1, t, speed: 1, wheelie: Math.sin(t) > .6 ? .25 : 0 });
     drawWolf(W + 300 - ((t * 32) % (W + 600)), 356, { face: -1, t, scale: .42, arm: Math.sin(t * 4) * .6 });
-    drawCow(W + 380 - ((t * 32) % (W + 600)), 300, { face: -1, t, scale: .35, rot: -.1 * Math.sin(t) });
+    drawCow(W + 380 - ((t * 32) % (W + 600)), 300, { face: -1, t, scale: .55, rot: -.1 * Math.sin(t) });
     drawSludge(W + 470 - ((t * 32) % (W + 600)), 358, { face: -1, t, scale: .2 });
     if (!this.pressed) { if (Math.floor(t * 2) % 2) text(Input.mode === 'touch' ? 'TAP TO ROCK' : 'PRESS ANY BUTTON', W / 2, 300, { color: '#fff', align: 'center', scale: 2, outline: true }); }
     else { panel(W / 2 - 100, 236, 200, this.items().length * 14 + 8, { rim: '#7fff3a', bg: 'rgba(20,8,30,.9)' }); drawList(this.items(), this.sel, W / 2 - 84, 242, { gap: 14, w: 190 }); }

diff --git a/game/333-dimensions-of-madness/src/07_fx.js b/game/333-dimensions-of-madness/src/07_fx.js
@@ -50,7 +50,7 @@ const Cam = {
     this.look = lerp(this.look || 0, facing * VW * .12, instant ? 1 : .025);
     let tx = px - VW / 2 + this.look, ty = this.ty0 === undefined ? py - VH * .56 : this.ty0;
     const want = py - VH * .56; if (instant || Math.abs(want - ty) > 18) ty = lerp(ty, want, instant ? 1 : .08); this.ty0 = ty;
-    if (L.camLock) { tx = clamp(tx, L.camLock.x0, L.camLock.x1 - VW); }
+    if (L.camLock) { tx = clamp(tx, L.camLock.x0, L.camLock.x1 - VW); if (L.camLock.gy) ty = L.camLock.gy - VH * .86; } // gy: arena floor low on screen (room for big flying bosses)
     tx = clamp(tx, 0, L.w * TS - VW); ty = clamp(ty, 0, L.h * TS - VH);
     if (L.autoScroll) tx = Math.max(this.x, L.scrollX);
     if (instant) { this.x = tx; this.y = ty; } else { this.x = lerp(this.x, tx, L.autoScroll ? 1 : .1); this.y = lerp(this.y, ty, .1); }
